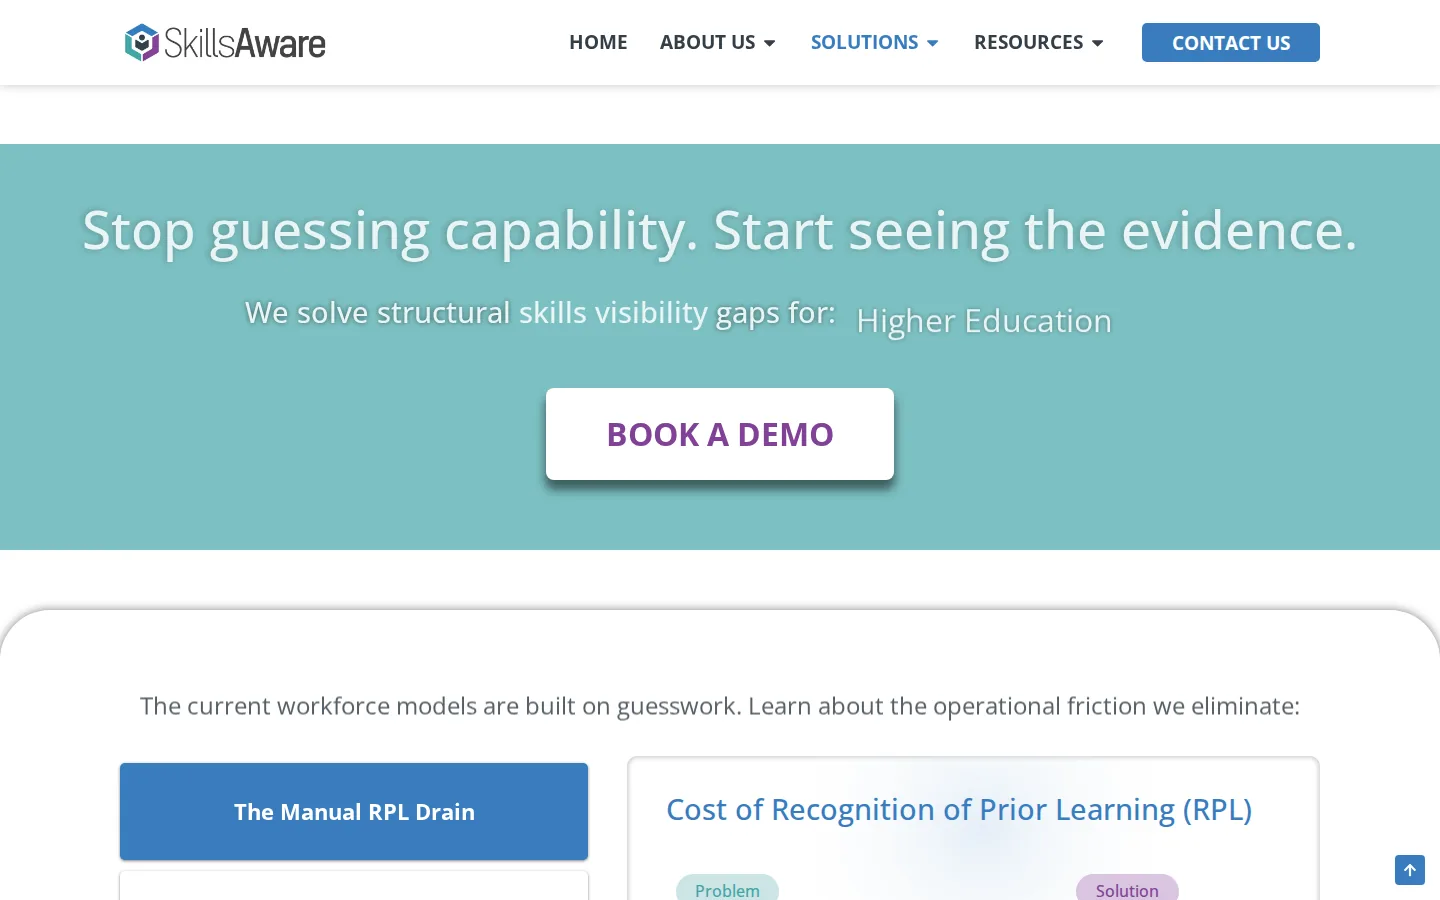
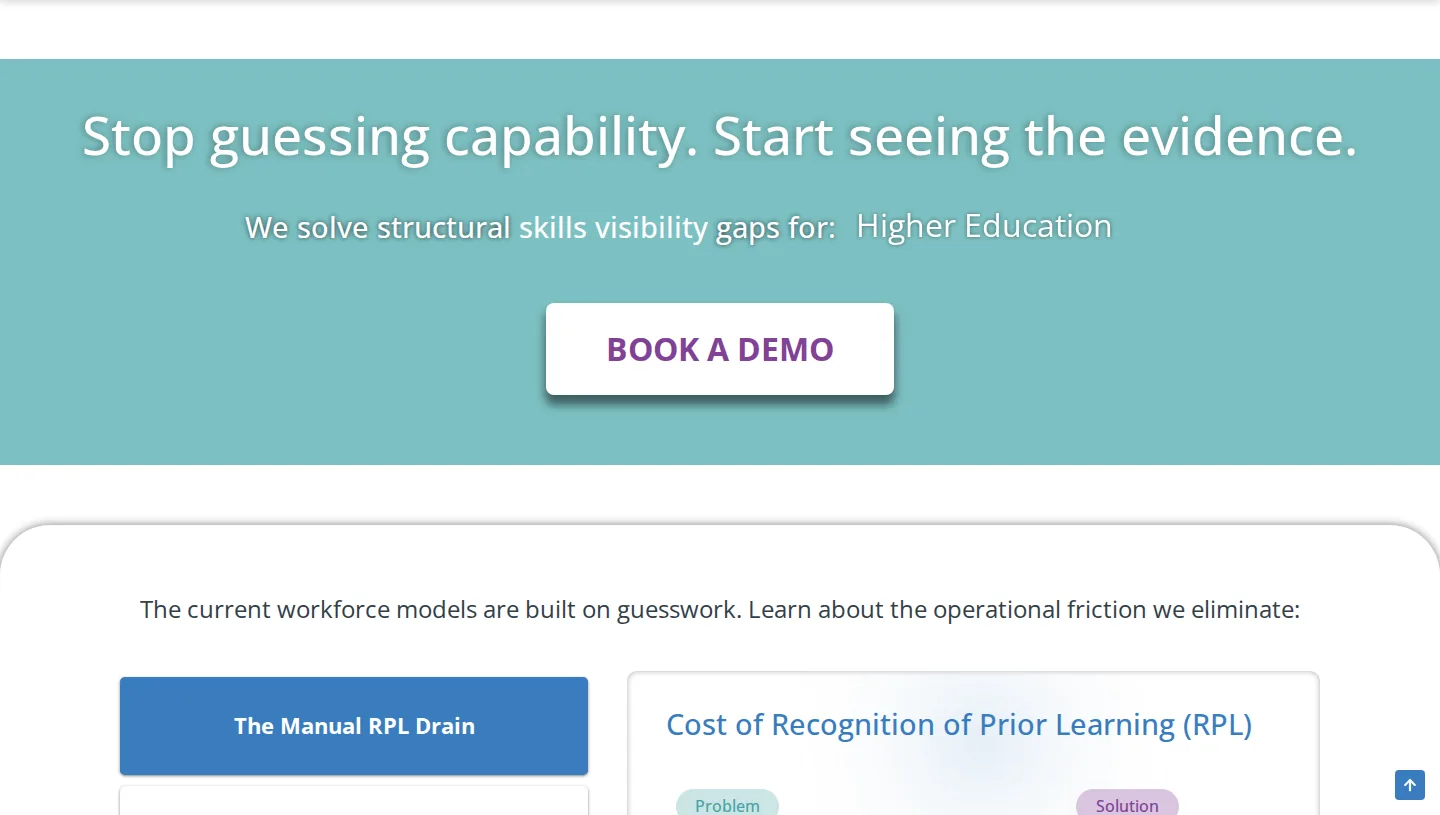
Review fixes: getstarted restyled, uniform card actions, 3-col featured grid
getstarted had zero matching CSS (raw unstyled page linked from every
footer) — rebuilt on the service-card grid with the same real links, and
fixed a stray </a>. Card action rows are now identical across cards
regardless of domain length; homepage featured six renders 3+3; related
previews sit side by side; footer Case Studies points at the case-studies
page; open source strip gains vc-storage (npm). SkillsAware and Tru.NET
thumbnails recropped so content, not nav chrome, fills the card.

Claude-Session: https://claude.ai/code/session_01GXBrkw8HMXVDxnJf4Fp6c5

diff --git a/website/templates/getstarted.html b/website/templates/getstarted.html
@@ -4,97 +4,61 @@
 {% block meta_description %}Get started with LinkedTrust — make a claim, ask for validation, and share a verifiable report. Three simple steps to verified trust.{% endblock %}
 {% block content %}
 
+<section class="container" style="padding-top:2rem;padding-bottom:1rem;">
+    <div class="section-label mono">// get started</div>
+    <h1 class="section-title">Getting started with LinkedTrust</h1>
+</section>
 
-<div class="getstarted-container">
-    <h1>Getting started with LinkedTrust</h1>
+<section class="services-section" style="padding-top:1rem;">
+    <div class="services-grid">
 
-    <div class="getstarted-row">
-        <div class="getstarted-holder">
-            <div class="get-started-card">
-                <div class="get-started-image">
-                    <img src="{% static 'img/linkedtrust-app.png' %}" alt="Use the app" loading="lazy" decoding="async">
-                </div>
-                <div class="get-started-details">
-                    <div class="get-started-text">
-                     <H4>Have Something to Share?</H4>
-                        <p>Make a Claim</p>
-                        <p>Ask for Validation</p>
-                        <p>Share the Report</p>
-                    </div>
-                    <a href="https://live.linkedtrust.us/login" class="cta-button">Login Now</a>
-                </div>
+        <div class="service-card">
+            <div class="get-started-image">
+                <img src="{% static 'img/linkedtrust-app.png' %}" alt="Use the app" loading="lazy" decoding="async">
             </div>
-        </div>
-        <div class="getstarted-holder">
-            <div class="get-started-card">
-                <div class="get-started-image">
-                    <img src="{% static 'img/investigate.png' %}" alt="investigate" loading="lazy" decoding="async">
-                </div>
-                <div class="get-started-details">
-                    <div class="get-started-text">
-                        <h4>Investigating?</h4>
-                        <p>Search</p>
-                        <p>View a Report</p>
-                        <p>Dig Into the Graph</p>
-                    </div>
-                    <a href="https://live.linkedtrust.us/" class="cta-button">Live App</a>
-                </div>
-            </div>
-        </div>
-        <div class="getstarted-holder">
-            <div class="get-started-card">
-                <div class="get-started-image">
-                    <img src="{% static 'img/opencreds.png' %}" alt="OpenCreds.net" loading="lazy" decoding="async">
-                </div>
-                <div class="get-started-details">
-                    <div class="get-started-text">
-                        <h4>Accomplish Something?</h4>
-                        <p>Describe a Skill</p>
-                        <p>Ask for Recommendations</p>
-                        <p>Share Your Credential</a>
-                    </div>
-                    <a href="https://opencreds.net" class="cta-button">OpenCreds</a>
-                </div>
-            </div>
+            <h3>Have Something to Share?</h3>
+            <p>Make a Claim<br>Ask for Validation<br>Share the Report</p>
+            <a href="https://live.linkedtrust.us/login" class="btn btn-gradient" target="_blank" rel="noopener">Login Now</a>
         </div>
 
-<!--
-        <div class="getstarted-holder">
-            <div class="get-started-card">
-                <div class="get-started-image">
-                    <img src="{% static 'img/Media.png' %}" alt="">
-                </div>
-                <div class="get-started-details">
-                    <div class="get-started-text">
-                        <h4>Research Assistant: TrustClip</h4>
-                        <p>Install the Bookmarklet</p>
-                        <p>Highlight Text</p>
-                        <p>See Instructions</p>
-                    </div>
-                    <a href="https://opencreds.net" class="cta-button">Drag Me To The Bar</a>
-                </div>
+        <div class="service-card">
+            <div class="get-started-image">
+                <img src="{% static 'img/investigate.png' %}" alt="Investigate" loading="lazy" decoding="async">
             </div>
+            <h3>Investigating?</h3>
+            <p>Search<br>View a Report<br>Dig Into the Graph</p>
+            <a href="https://live.linkedtrust.us/" class="btn btn-gradient" target="_blank" rel="noopener">Live App</a>
         </div>
--->
-        <div class="getstarted-holder">
-            <div class="get-started-card">
-                <div class="get-started-image">
-                    <img src="{% static 'img/devs.png' %}" alt="Developers" loading="lazy" decoding="async">
-                </div>
-                <div class="get-started-details">
-                    <div class="get-started-text">
-                        <h4>For Developers</h4>
-                        <p><a class="nodec" href="https://live.linkedtrust.us/api/docs/">Send Claims via API</a></p>
-                        <p><a class="nodec" href="https://www.npmjs.com/package/@cooperation/vc-storage">Store Credentials to Google Drive</a></p>
-                        <p><a class="nodec" href="https://pypi.org/project/linked-claims-extractor/">Use LLM to Extract Claims</a></p>
-                    </div>
-                    <a href="https://github.com/Cooperation-org" class="cta-button">Github</a>
-                </div>
+
+        <div class="service-card">
+            <div class="get-started-image">
+                <img src="{% static 'img/opencreds.png' %}" alt="OpenCreds.net" loading="lazy" decoding="async">
             </div>
+            <h3>Accomplish Something?</h3>
+            <p>Describe a Skill<br>Ask for Recommendations<br>Share Your Credential</p>
+            <a href="https://opencreds.net" class="btn btn-gradient" target="_blank" rel="noopener">OpenCreds</a>
         </div>
+
+        <div class="service-card">
+            <div class="get-started-image">
+                <img src="{% static 'img/devs.png' %}" alt="Developers" loading="lazy" decoding="async">
+            </div>
+            <h3>For Developers</h3>
+            <p>
+                <a class="nodec" href="https://live.linkedtrust.us/api/docs/" target="_blank" rel="noopener">Send Claims via API</a><br>
+                <a class="nodec" href="https://www.npmjs.com/package/@cooperation/vc-storage" target="_blank" rel="noopener">Store Credentials to Google Drive</a><br>
+                <a class="nodec" href="https://pypi.org/project/linked-claims-extractor/" target="_blank" rel="noopener">Use LLM to Extract Claims</a>
+            </p>
+            <a href="https://github.com/Cooperation-org" class="btn btn-gradient" target="_blank" rel="noopener">GitHub</a>
+        </div>
+
     </div>
+</section>
 
-</div>
-
+<section class="cta-banner">
+    <h2>Not sure where to start?</h2>
+    <p>Book a free call. We listen first.</p>
+    <a href="{% url 'contact' %}" class="btn btn-white">Schedule a Call</a>
+</section>
 
 {% endblock %}

diff --git a/website/templates/work_list.html b/website/templates/work_list.html
@@ -73,6 +73,11 @@
                 <p class="repo-desc">Integration for Ghost CMS and Bluesky — publish once, reach the open social web.</p>
                 <div class="repo-meta"><span><span class="lang-dot lang-dot--ts"></span>TypeScript</span><span><i class="fa-regular fa-star"></i> 7</span></div>
             </a>
+            <a href="https://github.com/Cooperation-org/vc-storage" class="repo-card" target="_blank" rel="noopener">
+                <div class="repo-name"><i class="fa-brands fa-github"></i> vc-storage</div>
+                <p class="repo-desc">TypeScript library to save OBv3 or other credentials to Google Drive or Wallet Attached Storage. Published on npm.</p>
+                <div class="repo-meta"><span><span class="lang-dot lang-dot--ts"></span>TypeScript</span><span><i class="fa-regular fa-star"></i> 4</span><span class="pkg-pill">npm i @cooperation/vc-storage</span></div>
+            </a>
             <a href="https://github.com/Cooperation-org/odoo-cli" class="repo-card" target="_blank" rel="noopener">
                 <div class="repo-name"><i class="fa-brands fa-github"></i> odoo-cli</div>
                 <p class="repo-desc">Manage Odoo CRM from the command line. No UI needed.</p>

diff --git a/static/css/site.css b/static/css/site.css
@@ -1796,3 +1796,30 @@ linked-badge[layout="card"]:not(:defined) {
     overflow: hidden;
     text-overflow: ellipsis;
 }
+
+/* Get-started cards */
+.get-started-image img {
+    width: 100%;
+    height: 140px;
+    object-fit: contain;
+    margin-bottom: 1rem;
+}
+.service-card .btn { margin-top: 1rem; display: inline-block; }
+a.nodec { color: var(--brand-primary); font-weight: 600; }
+a.nodec:hover { text-decoration: underline; }
+
+/* Uniform card action rows: full-width Visit button, details right-aligned
+   beneath — identical layout no matter how long the domain is. */
+.card-actions {
+    flex-direction: column;
+    align-items: stretch;
+}
+.btn-visit { justify-content: center; }
+.card-actions .card-details-link { align-self: flex-end; }
+
+/* Featured six on the homepage: 3+3 instead of a lopsided 4+2 */
+.portfolio-grid--3 { grid-template-columns: repeat(3, 1fr); }
+@media (max-width: 900px) { .portfolio-grid--3 { grid-template-columns: repeat(auto-fill, minmax(280px, 1fr)); } }
+
+/* Let two related previews sit side by side inside a service card */
+.related-preview { flex: 1 1 130px; min-width: 120px; max-width: 180px; width: auto; }

diff --git a/website/templates/footer.html b/website/templates/footer.html
@@ -19,7 +19,7 @@
             <h4>Work</h4>
             <ul>
                 <li><a href="{% url 'work_list' %}">Portfolio</a></li>
-                <li><a href="{% url 'work_list' %}?category=client_work">Case Studies</a></li>
+                <li><a href="{% url 'case_studies_list' %}">Case Studies</a></li>
                 <li><a href="{% url 'services' %}">Services</a></li>
                 <li><a href="{% url 'interns' %}">Internships</a></li>
                 <li><a href="https://github.com/Cooperation-org" target="_blank" rel="noopener">Open Source</a></li>

diff --git a/website/templates/index.html b/website/templates/index.html
@@ -124,7 +124,7 @@
     <div style="max-width:1200px;margin:0 auto;">
         <div class="section-label mono">// portfolio</div>
         <h2 class="section-title">Selected work</h2>
-        <div class="portfolio-grid">
+        <div class="portfolio-grid portfolio-grid--3">
             {% for project in featured_projects %}
             {% include 'project_card.html' %}
             {% empty %}
